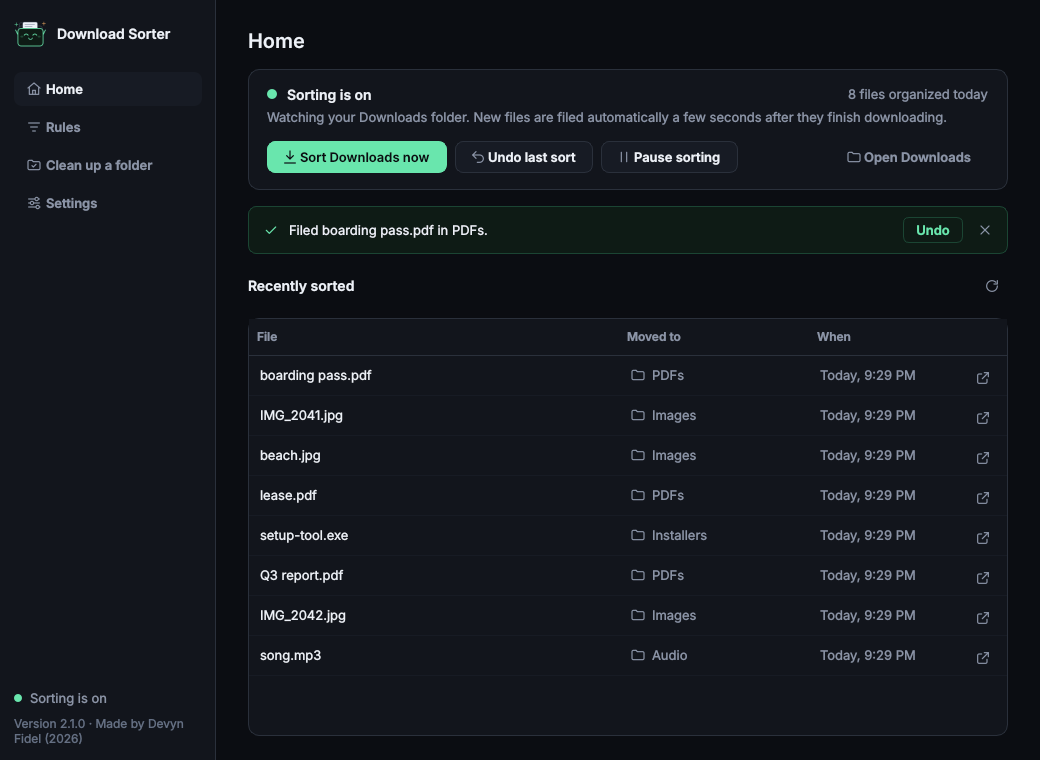
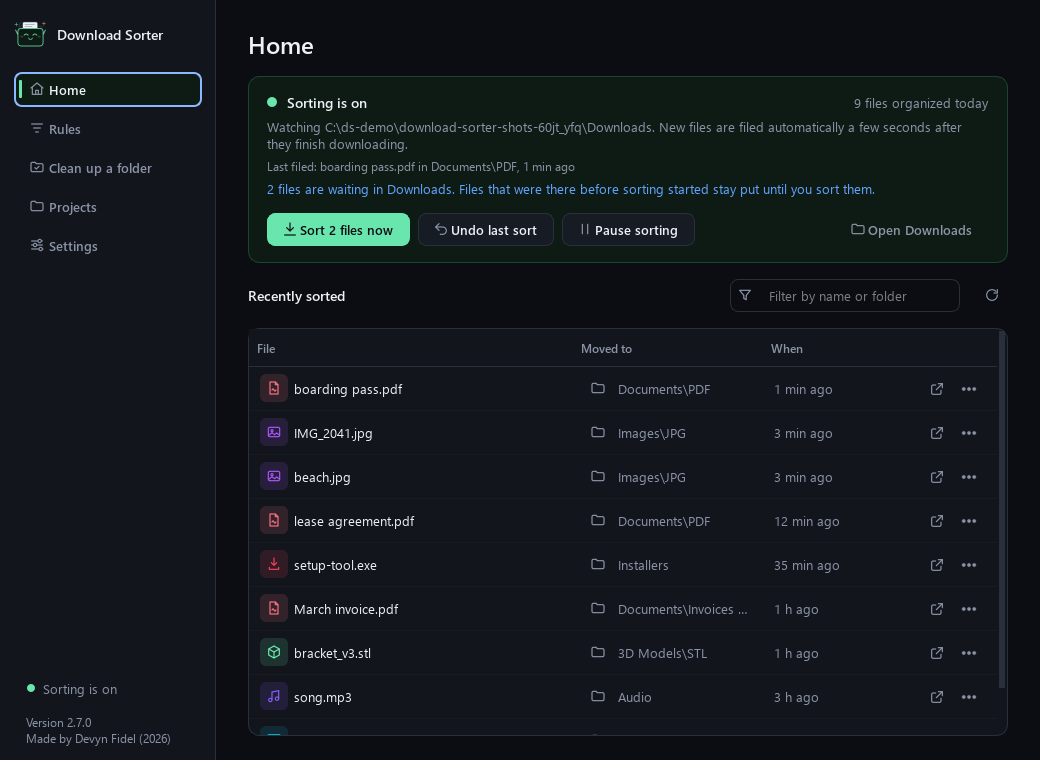
docs: README screenshots for 2.7, and a shelf group in the screenshot tool
home.png is the current Home page; rules.png and shelf.png are new. They
are rendered from a throwaway sandbox in a neutral temp folder, so no
user name or path shows.

diff --git a/tools/render_screens.py b/tools/render_screens.py
@@ -9,7 +9,7 @@ history and folders are never read or changed.
     .\\.venv\\Scripts\\python.exe tools\\render_screens.py --out C:\\temp\\shots --min
     .\\.venv\\Scripts\\python.exe tools\\render_screens.py --out C:\\temp\\shots --compact
 
-Groups: home, rules, cleanup, settings, wizard, dialogs, banners, roles (default: all).
+Groups: home, rules, cleanup, settings, wizard, dialogs, banners, shelf, roles (default: all).
 "roles" is one sheet with every shared style role (badges, tones, switches, ...).
 Besides the PNGs, ``manifest.json`` lists each window's size and the smallest
 size its layout asks for, which is what the layout-fit test checks.
@@ -35,7 +35,7 @@ MAIN_MIN = (900, 560)      # what the window itself allows (RulesManagerDialog.s
 MAIN_COMPACT = (900, 640)  # as narrow, a little taller: a second size to compare against
 WIZARD_SIZE = (760, 680)
 WIZARD_MIN = (720, 640)
-GROUPS = ("home", "rules", "cleanup", "settings", "wizard", "dialogs", "banners", "roles")
+GROUPS = ("home", "rules", "cleanup", "settings", "wizard", "dialogs", "banners", "shelf", "roles")
 
 
 def parse_args() -> argparse.Namespace:
@@ -413,6 +413,31 @@ def render_banners(shooter: Shooter) -> None:
     host.close()
 
 
+def render_shelf(shooter: Shooter, sandbox: Path) -> None:
+    """The Ctrl+Shift+Space window: the newest files, a search, a search that finds nothing."""
+    print("shelf")
+    import file_index
+    import prints
+    import shelf
+
+    downloads = sandbox / "Downloads"
+    plate = _touch(downloads / "3D Models" / "MakerWorld" / "Cable Clip" / "cable_clip_plate_1.3mf", minutes_ago=10)
+    prints.record_print(plate, {"printer": "X1C", "filament_type": "PLA", "plate_count": 2, "print_time": "1h 12m",
+                                "makerworld_meta": {"title": "Cable Clip", "designer": "Ada"}})
+    _touch(downloads / "Banking" / "Chase_Statement_Oct2026.pdf", minutes_ago=180)
+    _touch(downloads / "Banking" / "Chase_Statement_Sep2026.pdf", minutes_ago=60 * 24 * 32)
+    file_index.rebuild(downloads)
+    file_index.note_file(downloads / "Banking" / "Chase_Statement_Oct2026.pdf", downloads, {"site": "yourbank.com"})
+    shelf.three_d_app_open = lambda: False
+    for name, text in (("shelf_recent", ""), ("shelf_search", "statement"), ("shelf_print", "pla"),
+                       ("shelf_nothing", "zebra")):
+        window = shelf._build_shelf_window()
+        window.search_box.setText(text)
+        window.search_now()
+        shooter.shoot(window, name, (600, 480))
+        window.close()
+
+
 def render_roles(shooter: Shooter) -> None:
     """One sheet with every shared style role, to check them side by side."""
     print("roles")
@@ -536,6 +561,7 @@ def main() -> int:
         ("wizard", lambda: render_wizard(shooter, wizard_size, cfg, SANDBOX)),
         ("dialogs", lambda: render_dialogs(shooter)),
         ("banners", lambda: render_banners(shooter)),
+        ("shelf", lambda: render_shelf(shooter, SANDBOX)),
         ("roles", lambda: render_roles(shooter)),
     )
     failures = 0

diff --git a/README.md b/README.md
@@ -65,10 +65,12 @@ You need Windows 10 or 11. Nothing else needs to be installed.
   ```
 
   Kinds of file that are rare, and small folders like Installers and Archives, stay one level deep. You can change where things go on the **Rules** page, and test a file name with **Try a filename** before saving. To keep everything one level deep, turn off "give every kind of file its own folder" in **Settings**.
+  ![The Rules page: typing a file name shows which rule would file it, and where](docs/images/rules.png)
 - **Make a folder for a project and its files find it.** Create a folder inside a main folder (`3D Models\Flanged Mace`) or at the top of Downloads (`Downloads\Flanged Mace`) and name it after your project. From then on, any new download with that name in its name goes there: `flanged_mace_v1.f3d`, `Flanged Mace v2.step`, `FlangedMace-v3.stl`. Every version is kept; none is overwritten. A folder inside 3D Models or CAD takes 3D and CAD files, a folder at the top of Downloads takes any kind of file. Folders with general names (`New folder`, `Old`, `Parts`) are never used for this.
 - **Nothing is ever taken out of a folder you made.** Files you save, unzip or drag into your own folder inside Downloads stay there. Download Sorter only tidies its own folders: the main folders and the folders for each kind of file.
 - **Extra options in Settings**, all off until you turn them on: pictures in a folder per month, rule words found at the top of PDFs, tidier names or the date in front (Undo restores the old name), and old installers and zips to the Recycle Bin once a day. Settings also warns you if Windows Storage Sense is set to delete old files in Downloads, which would include your sorted files.
 - **Find any file again with Ctrl+Shift+Space.** A small window lists what was filed lately; type a few words to search everything in your sorted folder by name, folder, the website it came from, or a print's printer and filament ("statement oct", "pla", `from:yourbank`, `type:stl`). Enter shows the file, Ctrl+Enter opens it, and you can drag it straight into another app. Hovering a file on Home says why it was filed where it was.
+  ![The search window: typing "statement" lists matching files with their folder, how long ago, and the website they came from](docs/images/shelf.png)
 - **It learns from your moves, and asks first.** After you've moved 3 similar files into one folder, a ribbon asks “Put files like this in Banking?”. **Yes** adds a rule you can see and change on the Rules page; **No** means it won't ask again. It never moves a file on a guess unless you choose **Always** on that ribbon (or switch it on in Settings): then a download no rule could place is filed where you put files like it, with Undo. You can turn learning off in Settings.
 
 ## How Download Sorter decides where a file goes

diff --git a/CHANGELOG.md b/CHANGELOG.md
@@ -9,6 +9,9 @@ and this project adheres to [Semantic Versioning](https://semver.org/spec/v2.0.0
 
 ## [Unreleased]
 
+### Changed
+- **README screenshots show 2.7.** `home.png` is the current Home page, and two new ones show the Rules page (with "Try a filename") and the new search window. `tools/render_screens.py` has a `shelf` group for the search window.
+
 ## [2.7.0] - 2026-11-13
 
 ### Added
